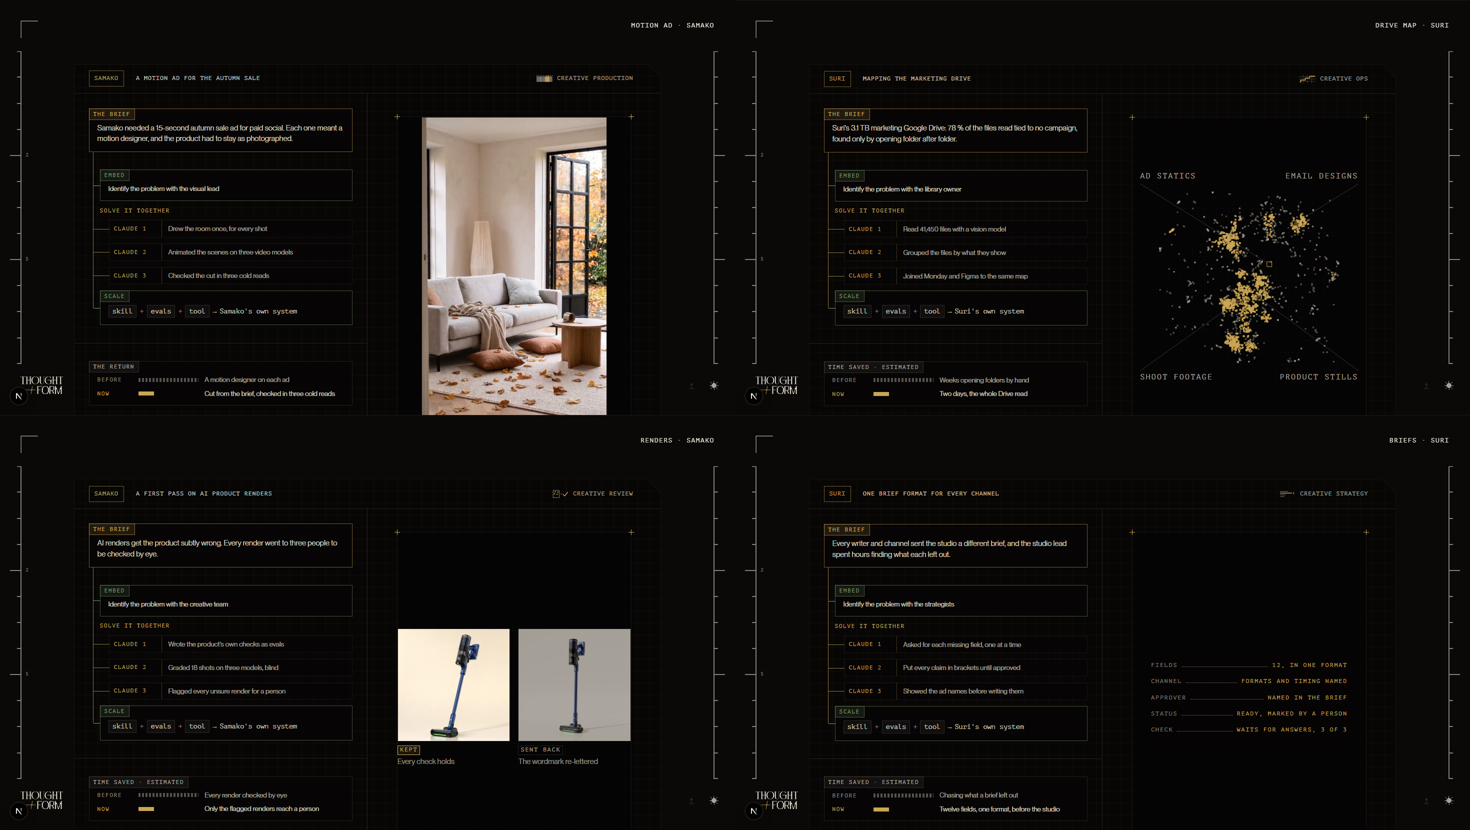
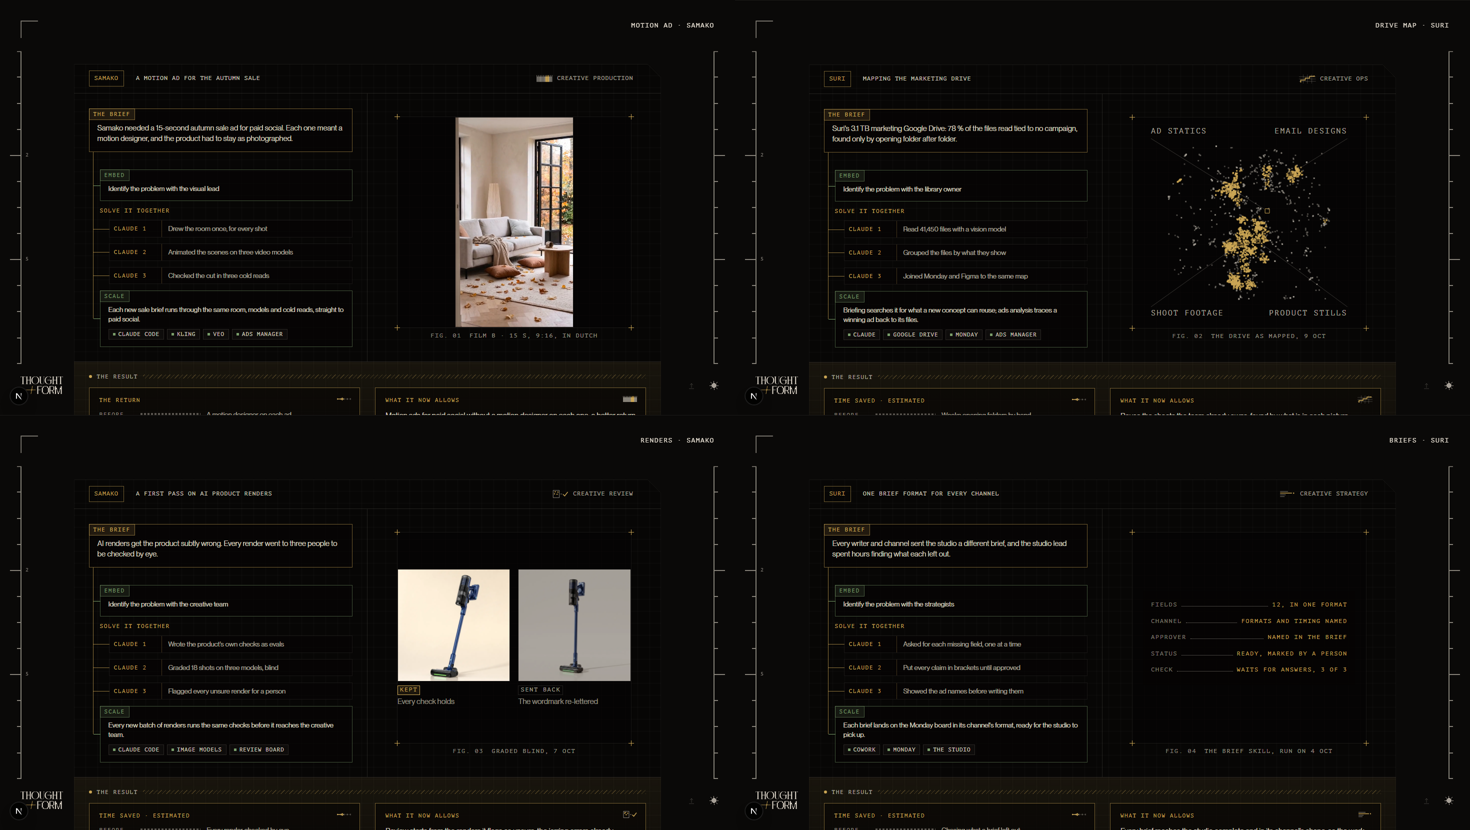
feat(arcs): the X-Bionic jobs take lab block 23, the result as a gold band
Process left and the figure right, then time saved and what it now allows
as two stat cards on a soft Tensor Gold band under both. Scale is one plain
sentence on how the work plugs into the rest of the client's system, with
the tools it plugs into as small notes (record: job.scale).

diff --git a/components/arcs/ArcJob.tsx b/components/arcs/ArcJob.tsx
@@ -201,8 +201,11 @@ export function ArcJob({
  * left reads the brief (the problem), then three moves on one gold rail:
  * Embed (green, with the team), Solve it together (what Claude did, three
  * small steps) and Scale (green, what plugs in, set as code); then what it
- * a rule from the frame's edge to the divider, the time saved as two bars,
- * then what it now allows (saved first, then what that opens up). No gate row: the record keeps it.
+ * and under both panels the result as a band (block 23 of the lab, after
+ * Dispatch's and Atomic Tessellator's stat rows): the time saved as two
+ * bars and what it now allows, two cards on a soft gold ground. Scale says
+ * in one sentence how the work plugs into the rest of the client's system,
+ * with the tools it plugs into as small notes. No gate row: the record keeps it.
  */
 function JobStack({ section, motion }: { section: ArcSectionOf<"job">; motion: ArcMotion }) {
   const { n, title, bucket, ask, did, figure, result, client } = section;
@@ -256,36 +259,16 @@ function JobStack({ section, motion }: { section: ArcSectionOf<"job">; motion: A
                 ))}
                 <li className="arc-jstack__box arc-jstack__box--human">
                   <p className="arc-jstack__tab">Scale</p>
-                  <p className="arc-jstack__code">
-                    <code>skill</code> <span>+</span> <code>evals</code> <span>+</span>{" "}
-                    <code>tool</code> <span className="arc-jstack__to">→</span>{" "}
-                    <span className="arc-jstack__dest">{client}&apos;s own system</span>
-                  </p>
+                  <p className="arc-jstack__line">{section.scale?.line}</p>
+                  {section.scale?.tools.length ? (
+                    <ul className="arc-jstack__tools" aria-label="Plugs into">
+                      {section.scale.tools.map((t) => (
+                        <li key={t}>{t}</li>
+                      ))}
+                    </ul>
+                  ) : null}
                 </li>
               </ol>
-              <hr className="arc-jstack__rule" />
-              <div className="arc-jstack__box">
-                <p className="arc-jstack__tab">
-                  {saved}
-                  {estimated ? " · estimated" : null}
-                </p>
-                <div className="arc-jstack__bars">
-                  <p className="arc-jstack__bar-row">
-                    <span className="arc-jstack__bar-k">Before</span>
-                    <i className="arc-jstack__bar" data-w="long" aria-hidden="true" />
-                    <span className="arc-jstack__bar-v">{result.before}</span>
-                  </p>
-                  <p className="arc-jstack__bar-row" data-lit="true">
-                    <span className="arc-jstack__bar-k">Now</span>
-                    <i className="arc-jstack__bar" data-w="short" aria-hidden="true" />
-                    <span className="arc-jstack__bar-v">{result.now}</span>
-                  </p>
-                </div>
-              </div>
-              <div className="arc-jstack__box arc-jstack__box--gold">
-                <p className="arc-jstack__tab">{ALLOWS_LABEL}</p>
-                <p className="arc-jstack__para">{result.allows}</p>
-              </div>
             </div>
             <figure className="arc-case__fig arc-jstack__fig" data-job-figure={figure.kind}>
               <div className="arc-case__frame arc-jstack__frame">
@@ -299,6 +282,37 @@ function JobStack({ section, motion }: { section: ArcSectionOf<"job">; motion: A
                 {figure.caption}
               </figcaption>
             </figure>
+          </div>
+          <div className="arc-jstack__band">
+            <p className="arc-jstack__band-head" aria-hidden="true">
+              <i />
+              The result
+              <span />
+            </p>
+            <section className="arc-jstack__card">
+              <Glyph kind="clock" />
+              <p className="arc-jstack__card-k">
+                {saved}
+                {estimated ? " · estimated" : null}
+              </p>
+              <div className="arc-jstack__bars">
+                <p className="arc-jstack__bar-row">
+                  <span className="arc-jstack__bar-k">Before</span>
+                  <i className="arc-jstack__bar" data-w="long" aria-hidden="true" />
+                  <span className="arc-jstack__bar-v">{result.before}</span>
+                </p>
+                <p className="arc-jstack__bar-row" data-lit="true">
+                  <span className="arc-jstack__bar-k">Now</span>
+                  <i className="arc-jstack__bar" data-w="short" aria-hidden="true" />
+                  <span className="arc-jstack__bar-v">{result.now}</span>
+                </p>
+              </div>
+            </section>
+            <section className="arc-jstack__card">
+              <Glyph kind={ws.glyph} />
+              <p className="arc-jstack__card-k">{ALLOWS_LABEL}</p>
+              <p className="arc-jstack__card-v">{result.allows}</p>
+            </section>
           </div>
         </article>
       </div>

diff --git a/components/arcs/job-stack.css b/components/arcs/job-stack.css
@@ -373,3 +373,116 @@
   bottom: -6px;
   right: -6px;
 }
+
+/* ── the result band (lab block 23, owner 2026-10-12): under both panels,
+   a soft Tensor Gold ground; a dot, its name and a hatched rule; two cards,
+   each with its glyph top right ── */
+.arc-jstack__band {
+  position: relative;
+  z-index: 2;
+  display: grid;
+  grid-template-columns: minmax(0, 1fr) minmax(0, 1fr);
+  gap: var(--space-md) var(--js-pad);
+  padding: calc(var(--js-pad) * 0.8) var(--js-pad) var(--js-pad);
+  border-top: 1px solid var(--arc-rule);
+  background: linear-gradient(
+    180deg,
+    color-mix(in srgb, var(--gold) 9%, transparent),
+    color-mix(in srgb, var(--gold) 3%, transparent)
+  );
+}
+.arc-jstack__band-head {
+  grid-column: 1 / -1;
+  display: flex;
+  align-items: center;
+  gap: 10px;
+  margin: 0;
+  font: 11px / 1 var(--js-mono);
+  letter-spacing: var(--track-eyebrow);
+  text-transform: uppercase;
+  color: var(--arc-ink-70);
+}
+.arc-jstack__band-head i {
+  width: 6px;
+  height: 6px;
+  border-radius: 50%;
+  background: var(--gold);
+}
+.arc-jstack__band-head span {
+  flex: 1 1 auto;
+  height: 8px;
+  background: repeating-linear-gradient(
+    -45deg,
+    color-mix(in srgb, var(--gold) 30%, transparent) 0 1px,
+    transparent 1px 6px
+  );
+}
+.arc-jstack__card {
+  position: relative;
+  display: grid;
+  align-content: start;
+  gap: 14px;
+  padding: 18px 20px 20px;
+  border: 1px solid var(--js-gold-line);
+  background: var(--arc-plate);
+}
+.arc-jstack__card > .arc-lev__glyph {
+  position: absolute;
+  top: 14px;
+  right: 16px;
+  width: auto;
+  height: 16px;
+}
+.arc-jstack__card-k {
+  margin: 0;
+  font: 11px / 1.2 var(--js-mono);
+  letter-spacing: var(--track-eyebrow);
+  text-transform: uppercase;
+  color: var(--gold);
+}
+.arc-jstack__card-v {
+  margin: 0;
+  max-width: 34em;
+  font-size: var(--type-base);
+  line-height: 1.45;
+  color: var(--arc-ink-90, var(--dawn));
+}
+
+/* the words column stands centred against the figure */
+.arc-jstack__words {
+  justify-content: center;
+}
+
+/* Scale: one plain sentence, then the tools it plugs into as small notes */
+.arc-jstack__tools {
+  display: flex;
+  flex-wrap: wrap;
+  gap: 6px;
+  margin: 10px 0 0;
+  padding: 0;
+  list-style: none;
+}
+.arc-jstack__tools li {
+  display: inline-flex;
+  align-items: center;
+  gap: 6px;
+  padding: 4px 8px;
+  border: 1px solid var(--arc-rule);
+  background: color-mix(in srgb, var(--dawn) 4%, transparent);
+  font: 11px / 1 var(--js-mono);
+  letter-spacing: var(--track-label);
+  text-transform: uppercase;
+  color: var(--arc-ink-90, var(--dawn));
+}
+.arc-jstack__tools li::before {
+  content: "";
+  width: 5px;
+  height: 5px;
+  background: var(--js-human);
+}
+
+@media (max-width: 960px) {
+  .arc-jstack__band {
+    grid-template-columns: minmax(0, 1fr);
+  }
+}

diff --git a/lib/arcs/content/shared/jobs.ts b/lib/arcs/content/shared/jobs.ts
@@ -82,6 +82,10 @@ export const X_BIONIC_JOBS: readonly ArcSectionOf<"job">[] = [
     madeIn: "Claude Code",
     ask: "Samako needed a 15-second autumn sale ad for paid social. Each one meant a motion designer, and the product had to stay as photographed.",
     embed: "Identify the problem with the visual lead",
+    scale: {
+      line: "Each new sale brief runs through the same room, models and cold reads, straight to paid social.",
+      tools: ["Claude Code", "Kling", "Veo", "Ads Manager"],
+    },
     did: [
       "Drew the room once, for every shot",
       "Animated the scenes on three video models",
@@ -122,6 +126,10 @@ export const X_BIONIC_JOBS: readonly ArcSectionOf<"job">[] = [
     madeIn: "Claude Code",
     ask: "Suri's 3.1 TB marketing Google Drive: 78 % of the files read tied to no campaign, found only by opening folder after folder.",
     embed: "Identify the problem with the library owner",
+    scale: {
+      line: "Briefing searches it for what a new concept can reuse; ads analysis traces a winning ad back to its files.",
+      tools: ["Claude", "Google Drive", "Monday", "Ads Manager"],
+    },
     did: [
       "Read 41,450 files with a vision model",
       "Grouped the files by what they show",
@@ -173,6 +181,10 @@ export const X_BIONIC_JOBS: readonly ArcSectionOf<"job">[] = [
     madeIn: "Claude Code",
     ask: "AI renders get the product subtly wrong. Every render went to three people to be checked by eye.",
     embed: "Identify the problem with the creative team",
+    scale: {
+      line: "Every new batch of renders runs the same checks before it reaches the creative team.",
+      tools: ["Claude Code", "Image models", "Review board"],
+    },
     did: [
       "Wrote the product's own checks as evals",
       "Graded 18 shots on three models, blind",
@@ -220,6 +232,10 @@ export const X_BIONIC_JOBS: readonly ArcSectionOf<"job">[] = [
     madeIn: "Cowork",
     ask: "Every writer and channel sent the studio a different brief, and the studio lead spent hours finding what each left out.",
     embed: "Identify the problem with the strategists",
+    scale: {
+      line: "Each brief lands on the Monday board in its channel's format, ready for the studio to pick up.",
+      tools: ["Cowork", "Monday", "The studio"],
+    },
     did: [
       "Asked for each missing field, one at a time",
       "Put every claim in brackets until approved",

diff --git a/tests/lib/arcs-registry.test.ts b/tests/lib/arcs-registry.test.ts
@@ -2065,6 +2065,15 @@ describe("the proposal as one argument (ADR-153 U1)", () => {
         if (s.top === "stack") {
           expect((s.embed ?? "").length, `${at}: the stack's embed step`).toBeGreaterThan(0);
           expect((s.embed ?? "").length, `${at}: embed`).toBeLessThanOrEqual(48);
+          /* Scale: one plain sentence and two to four tools as notes. */
+          expect((s.scale?.line ?? "").length, `${at}: scale`).toBeGreaterThan(0);
+          expect((s.scale?.line ?? "").length, `${at}: scale`).toBeLessThanOrEqual(110);
+          expect(s.scale?.line, `${at}: scale says something else`).not.toBe(s.result.allows);
+          expect((s.scale?.tools ?? []).length, `${at}: tools`).toBeGreaterThanOrEqual(2);
+          expect((s.scale?.tools ?? []).length, `${at}: tools`).toBeLessThanOrEqual(4);
+          for (const t of s.scale?.tools ?? []) {
+            expect(t.length, `${at}: "${t}"`).toBeLessThanOrEqual(16);
+          }
           for (const v of [s.result.before, s.result.now]) {
             expect((v ?? "").length, `${at}: the time saved's two bars`).toBeGreaterThan(0);
             expect((v ?? "").length, `${at}: "${v}"`).toBeLessThanOrEqual(48);

diff --git a/app/(internal)/test/proof-cards/proof-cards-c6.css b/app/(internal)/test/proof-cards/proof-cards-c6.css
@@ -543,3 +543,47 @@
 .pk-i--r-ledger .pk-i__cell-k {
   white-space: nowrap;
 }
+
+/* U10: Scale in plain words with the tools as notes; block 23's band on a
+   soft Tensor Gold ground */
+.pk-i__tools {
+  display: flex;
+  flex-wrap: wrap;
+  gap: 6px;
+  margin-top: 10px;
+}
+.pk-i__tools li {
+  display: inline-flex;
+  align-items: center;
+  gap: 6px;
+  padding: 4px 8px;
+  border: 1px solid var(--pk-line);
+  background: rgba(var(--pk-ink-rgb), 0.04);
+  font: calc(var(--pk-t-mono) * 0.92) / 1 var(--pk-mono);
+  letter-spacing: 0.08em;
+  text-transform: uppercase;
+  color: var(--pk-ink);
+}
+.pk-i__tools li::before {
+  content: "";
+  width: 5px;
+  height: 5px;
+  background: var(--pk-green);
+}
+.pk-i--r-cards .pk-i__band {
+  background: linear-gradient(
+    180deg,
+    rgba(var(--pk-gold-rgb), 0.09),
+    rgba(var(--pk-gold-rgb), 0.03)
+  );
+}
+.pk-i--r-cards .pk-i__band-head span {
+  background: repeating-linear-gradient(
+    -45deg,
+    rgba(var(--pk-gold-rgb), 0.3) 0 1px,
+    transparent 1px 6px
+  );
+}
+.pk-i--r-cards .pk-i__cell {
+  border-color: rgba(var(--pk-gold-rgb), 0.4);
+}

diff --git a/lib/arcs/types.ts b/lib/arcs/types.ts
@@ -1597,6 +1597,11 @@ export type ArcSection = ArcSectionBase &
         /** The `stack` card's first step (owner, 2026-10-12): embed with the
          *  team to identify the problem, one line, by role. ≤ 48. */
         embed?: string;
+        /** The `stack` card's last step, Scale (owner, 2026-10-12): how the
+         *  work plugs into the rest of the client's system, one plain
+         *  sentence (≤ 110) that never restates what it now allows, and the
+         *  tools it plugs into as small notes (2 to 4, ≤ 16 each). */
+        scale?: { line: string; tools: readonly string[] };
         /** The person who decided, by role (≤ 32), and, when the decision
          *  needs saying, what that person decides: one plain sentence in
          *  the client's own role words (≤ 80; owner 2026-10-11, "every

diff --git a/app/(internal)/test/proof-cards/RoundSix.tsx b/app/(internal)/test/proof-cards/RoundSix.tsx
@@ -225,11 +225,12 @@ function BandBody({ job, ba }: { job: Job; ba: boolean }) {
             ))}
             <li className="pk-c__box pk-i__big">
               <p className="pk-c__tab">Scale</p>
-              <p className="pk-i__code">
-                <code>skill</code> <span>+</span> <code>evals</code> <span>+</span>{" "}
-                <code>tool</code> <span className="pk-i__code-to">→</span>{" "}
-                <span className="pk-i__code-dest">{job.client}&apos;s own system</span>
-              </p>
+              <p className="pk-body">{job.scale?.line}</p>
+              <ul className="pk-i__tools" aria-label="Plugs into">
+                {job.scale?.tools.map((t) => (
+                  <li key={t}>{t}</li>
+                ))}
+              </ul>
             </li>
           </ol>
         </div>
